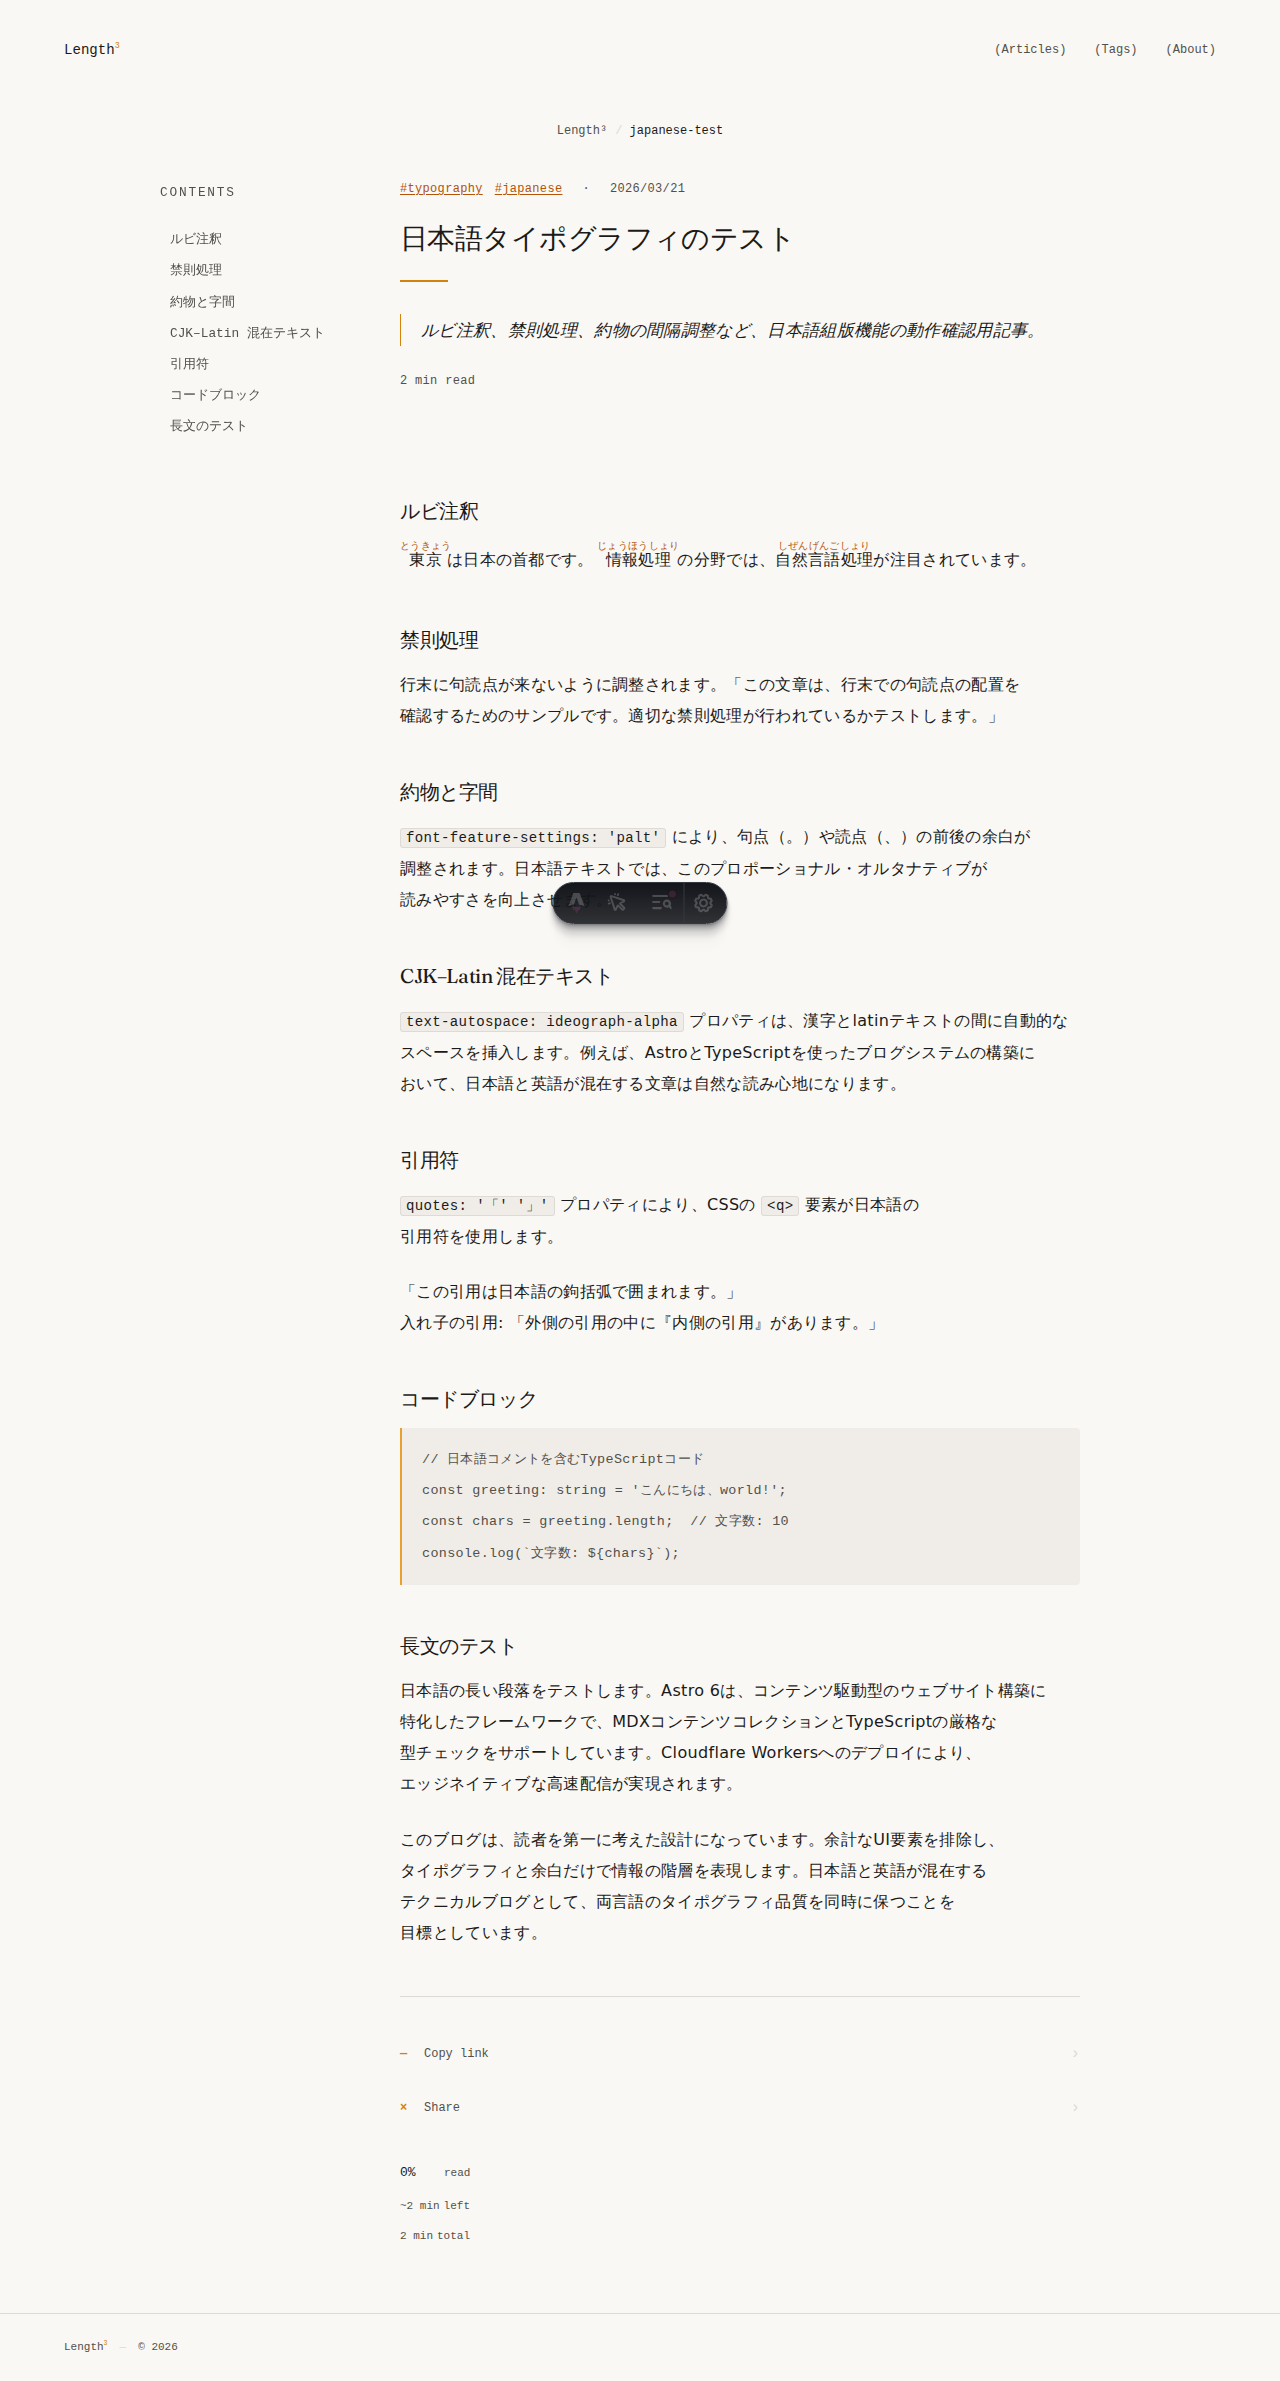
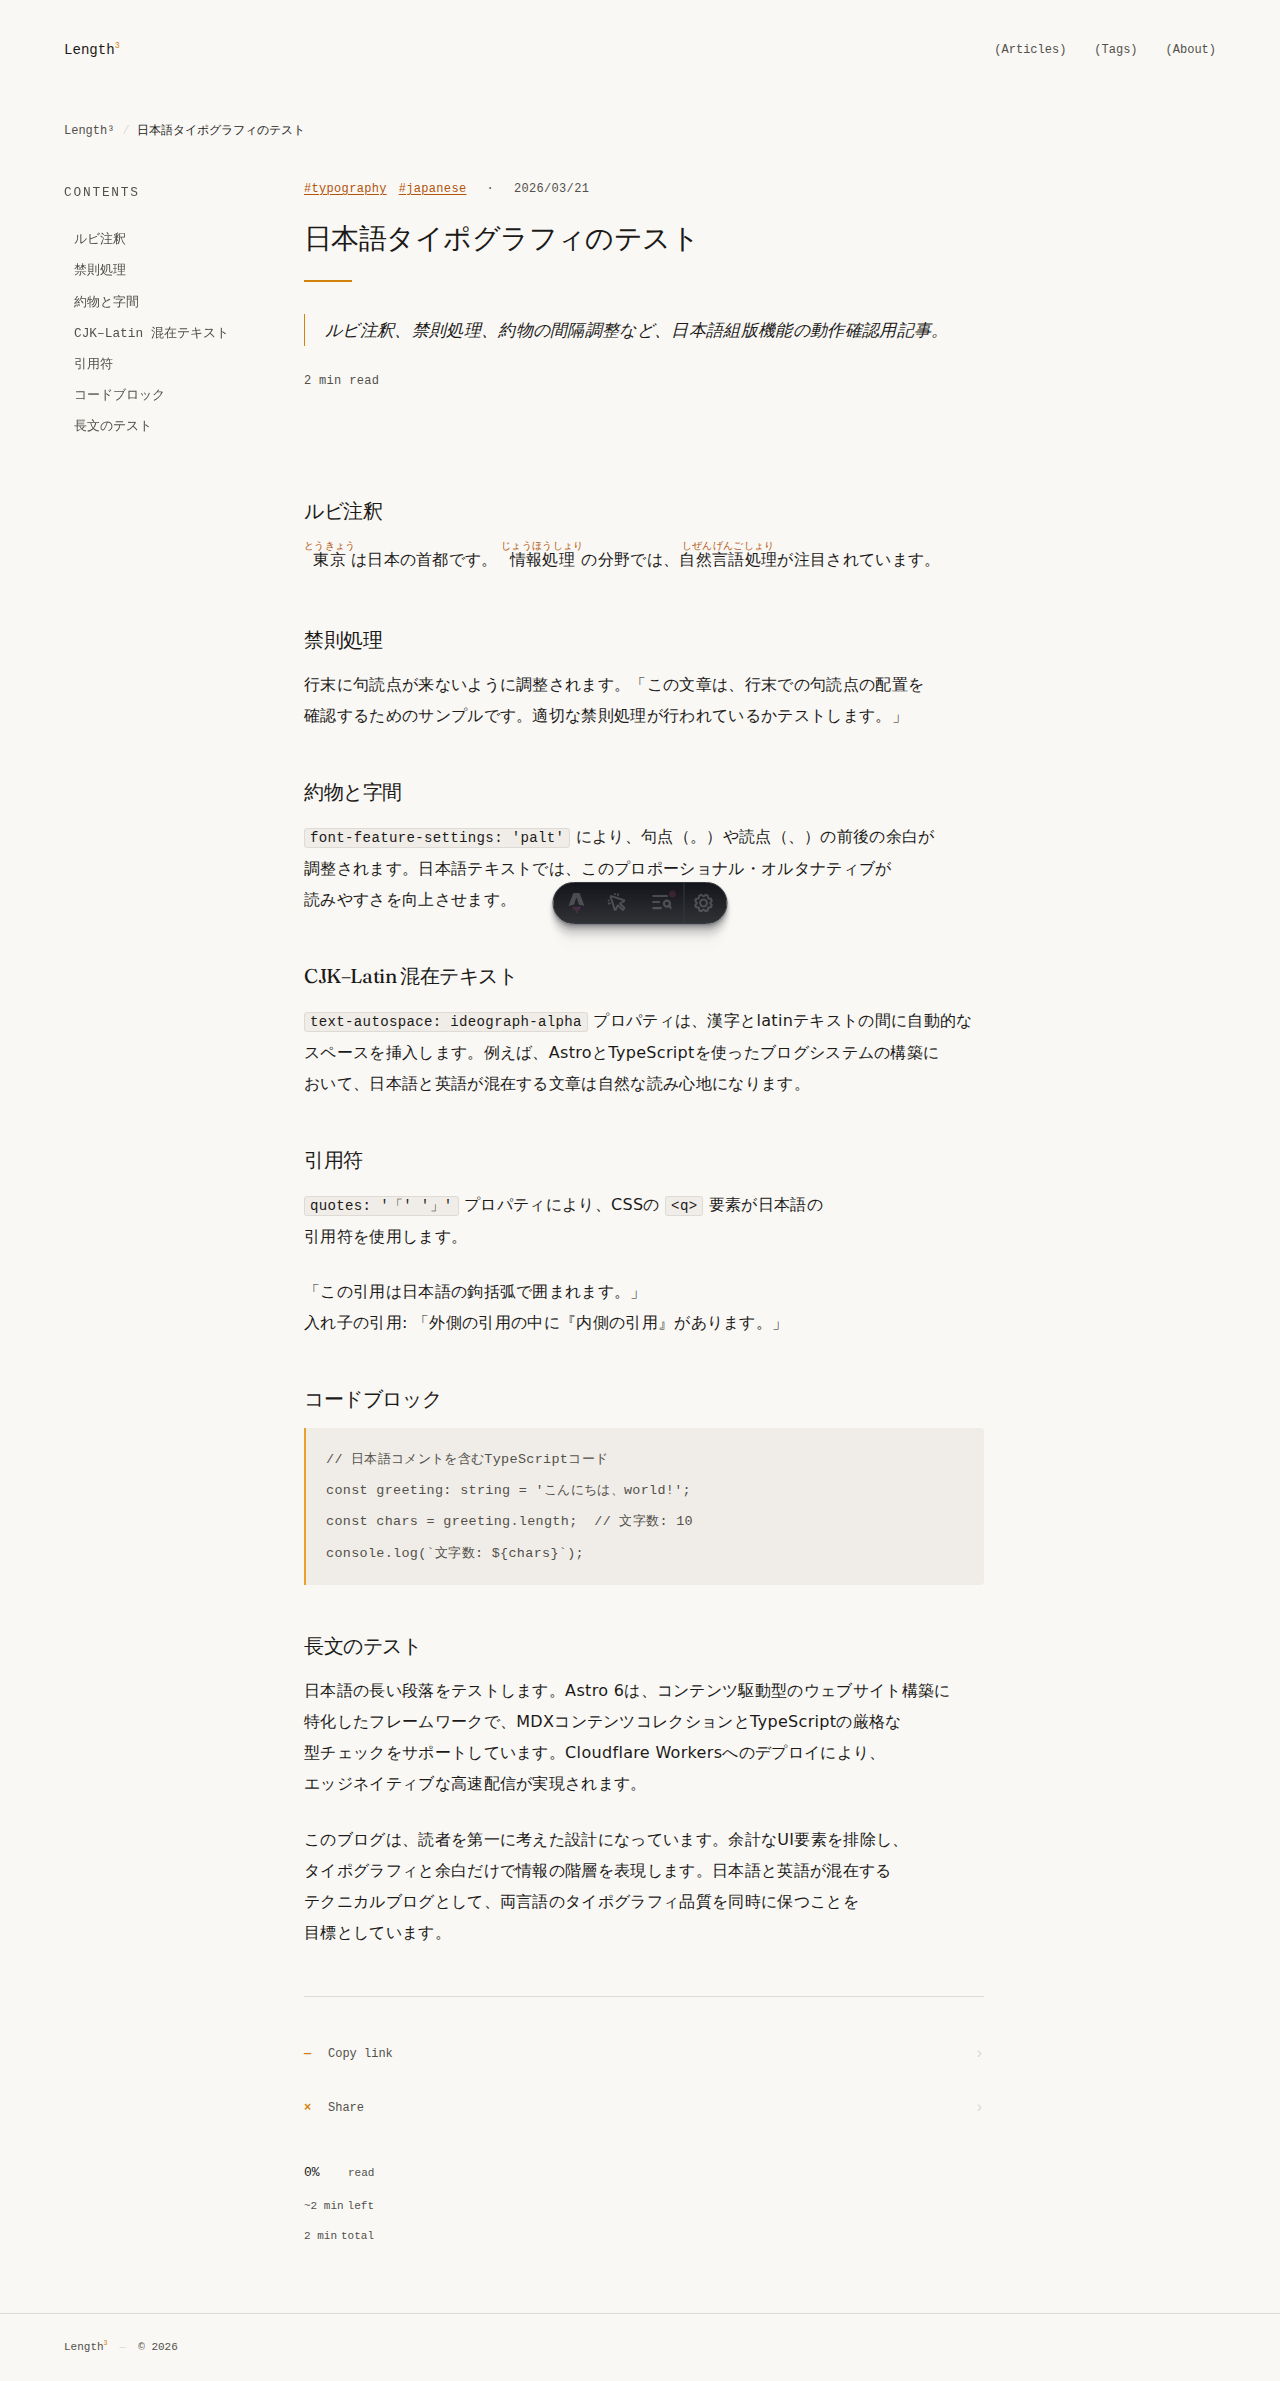
Fix additional WCAG 2.2 violations and Japanese font issues
SC 2.4.1 Bypass Blocks — A:
- Add skip-to-main link in BaseLayout as first focusable element
- Add id="main-content" to all <main> elements across every page

SC 2.4.1 / SC 1.3.1 — A:
- ArticleLayout: wrap content in <main id="main-content"> (article pages
  had no main landmark at all, making landmark navigation impossible)

SC 2.4.6 Headings and Labels — AA:
- ArticleLayout breadcrumb: replace URL slug with article title for a
  descriptive, human-readable label (SC 2.4.6 requires descriptive labels)
- Remove unused slug prop from ArticleLayout and [slug].astro

SC 2.4.2 Page Titled — A:
- tags/index.astro: "Tags — length3" → "Tags — Length³"
- tags/[tag].astro: "${tagName} — length3" → "${tagName} — Length³"

SC 3.1.2 Language of Parts — AA:
- ArticleCard: add lang={lang} to <article> element so screen readers
  use correct phonetic rules for Japanese cards on the English index page

Japanese font stack (--font-display):
- Move 'Hiragino Mincho ProN' and 'Yu Mincho' before 'Noto Sans JP' so
  CJK characters in headings render in Japanese serif (mincho) rather
  than sans-serif Noto Sans JP
- 'Yu Mincho' adds Windows 8+ coverage (was macOS-only before)

Japanese font stack (--font-sans):
- Add 'Yu Gothic UI' (Windows 10+) and 'Meiryo' (Windows Vista+) before
  system-ui so Japanese body text renders correctly when Google Fonts
  (Noto Sans JP) is unavailable due to network or privacy blocking

https://claude.ai/code/session_01VgBirFDxW6bTXH7YmUPLnz

diff --git a/src/styles/global.css b/src/styles/global.css
@@ -13,8 +13,14 @@
   --editor-bg:  #181511;   /* editor dark pane */
 
   /* Typography */
-  --font-display: 'Fraunces', Georgia, 'Noto Sans JP', 'Hiragino Mincho ProN', serif;
-  --font-sans:    'Noto Sans JP', system-ui, 'Hiragino Kaku Gothic ProN', sans-serif;
+  /* Display (headings): Japanese mincho fallbacks placed BEFORE Noto Sans JP so that
+     CJK characters in headings render in serif/mincho rather than sans-serif.
+     'Yu Mincho' covers Windows 8+; 'Hiragino Mincho ProN' covers macOS/iOS. */
+  --font-display: 'Fraunces', 'Hiragino Mincho ProN', 'Yu Mincho', Georgia, 'Noto Sans JP', serif;
+  /* Sans: Japanese-specific fonts listed BEFORE system-ui so that CJK characters
+     render correctly when Noto Sans JP (Google Fonts) is unavailable.
+     'Yu Gothic UI' covers Windows 10+; 'Meiryo' covers Windows Vista+. */
+  --font-sans:    'Noto Sans JP', 'Hiragino Kaku Gothic ProN', 'Yu Gothic UI', 'Meiryo', system-ui, sans-serif;
   --font-mono:    'JetBrains Mono', ui-monospace, 'Fira Code', 'Cascadia Code', monospace;
 
   /* Layout */
@@ -57,6 +63,28 @@ a {
 img {
   max-width: 100%;
   height: auto;
+}
+
+/* ─── Skip navigation link — SC 2.4.1 ──────────────────────────*/
+/* Visually hidden until focused; becomes visible for keyboard users */
+.skip-link {
+  position: absolute;
+  top: -100%;
+  left: 1rem;
+  padding: 0.5rem 1rem;
+  background: var(--ink);
+  color: var(--bg);
+  font-family: var(--font-mono);
+  font-size: 0.8125rem;
+  border-radius: 0 0 4px 4px;
+  z-index: 9999;
+  text-decoration: none;
+  transition: none; /* instant — no delay when keyboard user needs it */
+}
+.skip-link:focus {
+  top: 0;
+  outline: 2px solid var(--amber-text);
+  outline-offset: 2px;
 }
 
 /* ─── Focus outline — spec §6 ────────────────────────────────── */
